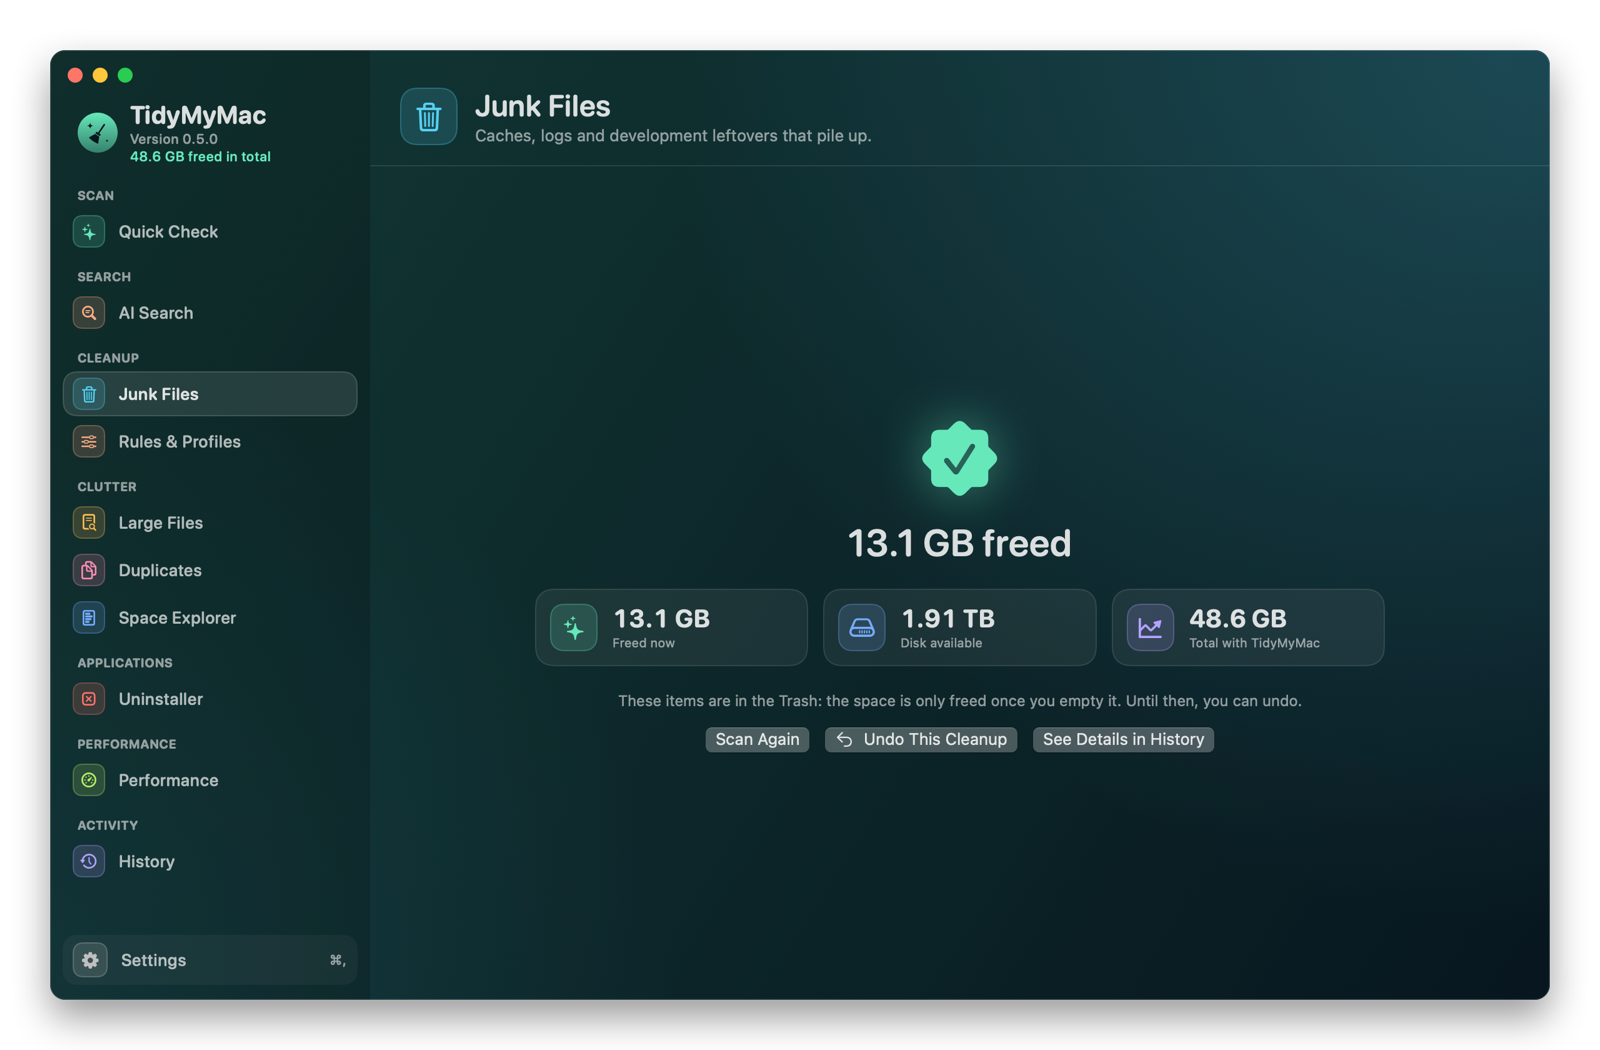
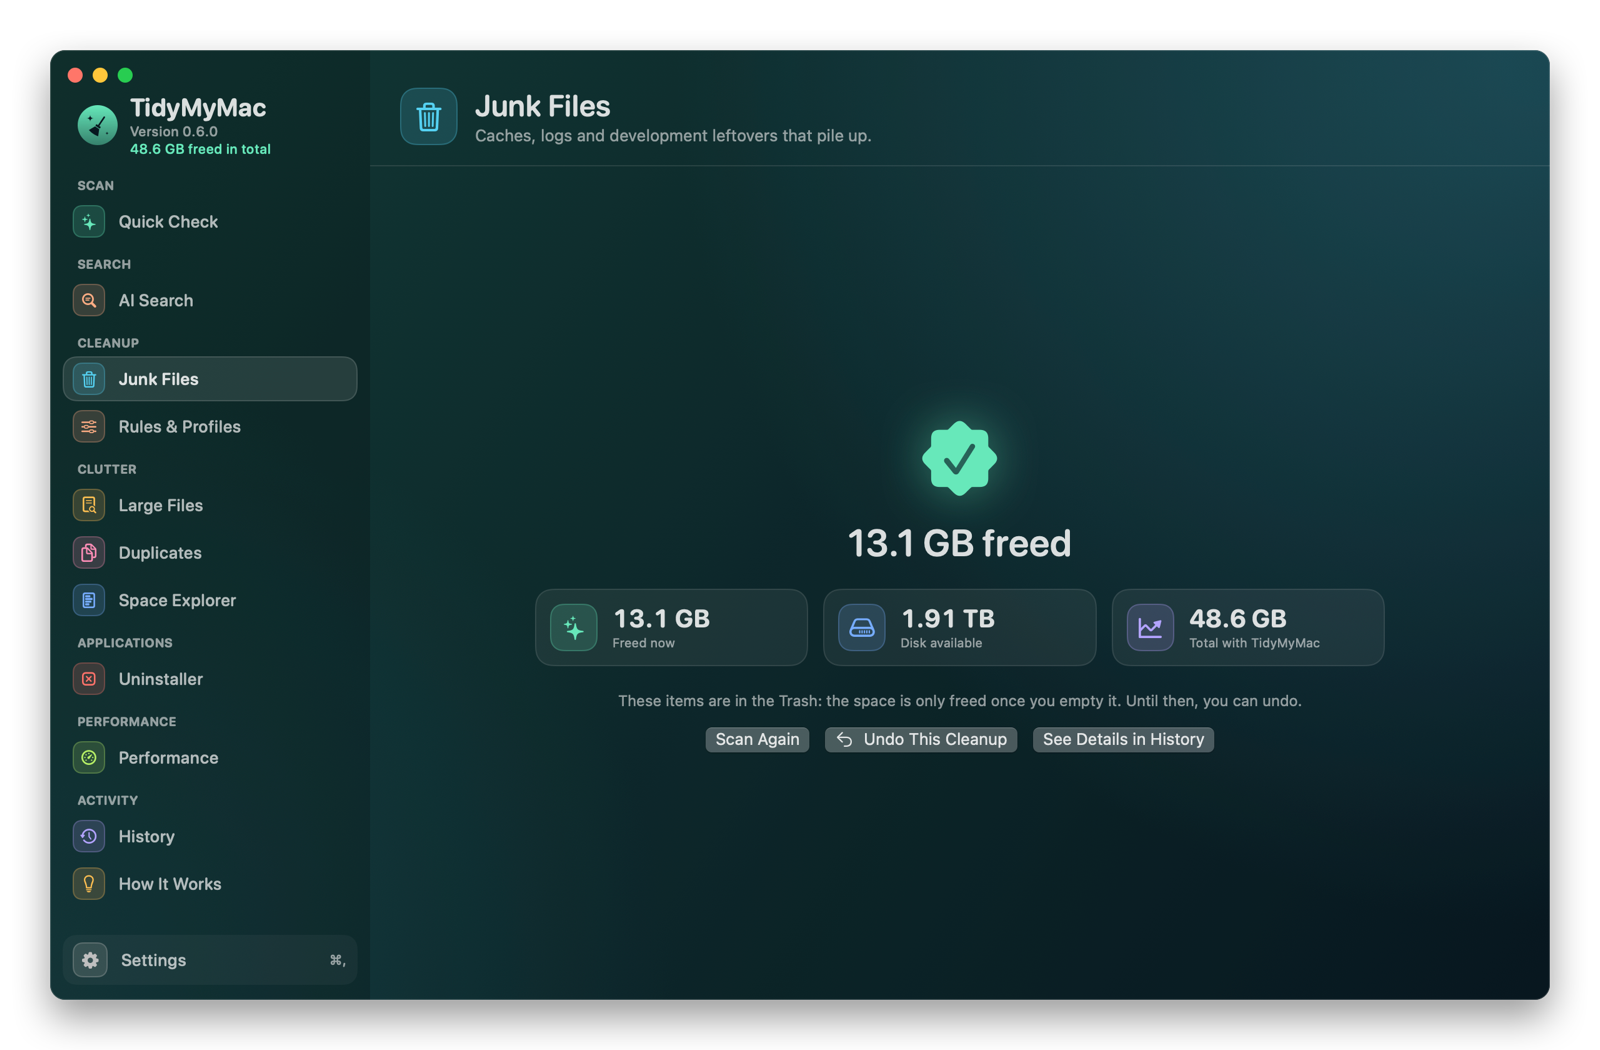
How It Works page and honest maintenance recommendations
Completes the "trust" phase: the app now explains what it does and doesn't
do, and stops recommending what macOS already manages on its own.

- New How It Works page: what TidyMyMac does, what it doesn't (no magic
  speed-up, nothing sent, protected files untouched), when cleaning up is
  pointless, and how to check it yourself.
- Maintenance is no longer a weekly routine: a task is only suggested when a
  measurement justifies it (memory pressure reported by macOS), nothing is
  selected by default, and the card says when there is nothing to do.
- Performance and Quick Check texts no longer promise a snappier Mac.
- Slightly tighter sidebar so the new page fits.

Changed region(s): [[0.0312, 0.0914, 0.2188, 0.8533]]

diff --git a/Sources/TidyMyMac/Features/HowItWorks/HowItWorksView.swift b/Sources/TidyMyMac/Features/HowItWorks/HowItWorksView.swift
@@ -1,0 +1,91 @@
+import SwiftUI
+
+/// « Comment ça marche » : ce que TidyMyMac fait, ce qu'il ne fait pas, et quand un nettoyage ne sert à rien.
+struct HowItWorksView: View {
+    @EnvironmentObject var navigation: AppNavigation
+
+    private var repositoryURL: URL? {
+        let repository = Bundle.main.object(forInfoDictionaryKey: "TMMReleasesRepository") as? String ?? ""
+        guard repository.split(separator: "/").count == 2 else { return nil }
+        return URL(string: "https://github.com/\(repository)")
+    }
+
+    var body: some View {
+        VStack(spacing: 0) {
+            ModuleHeader(module: .howItWorks)
+            Divider()
+            ScrollView {
+                VStack(alignment: .leading, spacing: 16) {
+                    ExplanationCard(icon: "checkmark.circle", tint: Theme.mint, title: "Ce que fait TidyMyMac", points: [
+                        localized("Il supprime des fichiers désignés par des règles publiques : caches, journaux, restes de développement, installeurs. Chaque règle explique ce qu'elle supprime et ce qui se passe ensuite."),
+                        localized("Il montre tout avant d'agir : le plan de nettoyage liste chaque élément, sa règle, son risque et sa destination, et attend votre confirmation."),
+                        localized("Il garde une trace : l'historique note chaque élément supprimé, et ce qui est dans la Corbeille peut être remis en place."),
+                        localized("Il mesure les gains de l'entretien avant et après, au lieu de les estimer."),
+                    ])
+                    ExplanationCard(icon: "xmark.circle", tint: Theme.coral, title: "Ce qu'il ne fait pas", points: [
+                        localized("Il ne rend pas le Mac plus rapide par magie. Supprimer des caches libère de l'espace, pas de la vitesse : les apps les recréent, et sont parfois un peu plus lentes le temps de le faire."),
+                        localized("Il ne touche pas aux fichiers protégés de macOS. Vos documents, photos et messages ne partent que si vous les choisissez vous-même, dans Gros fichiers, Doublons ou l'Explorateur d'espace."),
+                        localized("Il n'envoie rien : ni vos fichiers, ni vos recherches, ni statistiques d'usage. Les seules connexions sont la vérification des mises à jour, que vous pouvez désactiver, le téléchargement d'un modèle pour la Recherche IA et le test de débit que vous lancez vous-même."),
+                        localized("Il ne cherche pas à vous inquiéter : pas d'alerte alarmiste, pas de routine imposée, pas d'abonnement."),
+                    ])
+                    ExplanationCard(icon: "info.circle", tint: Theme.amber, title: "Quand nettoyer ne sert à rien", points: [
+                        localized("Quand il reste beaucoup d'espace libre : au-delà de quelques dizaines de gigaoctets, nettoyer ne change rien de visible."),
+                        localized("Pour la mémoire « utilisée » : macOS se sert de la mémoire libre comme cache, c'est voulu. La libérer n'aide que si macOS signale une mémoire sous tension, et TidyMyMac ne la conseille que dans ce cas."),
+                        localized("Pour les caches d'une app que vous utilisez tous les jours : ils reviendront vite."),
+                        localized("Pour le fichier d'échange, les caches système et une bonne partie des « Données système » : macOS les gère seul et libère de l'espace quand il en manque. TidyMyMac n'y touche pas."),
+                    ])
+                    ExplanationCard(icon: "magnifyingglass.circle", tint: Theme.sky, title: "Vérifier par vous-même", points: [
+                        localized("Le code est public, sous licence MIT : n'importe qui peut lire ce que fait l'app."),
+                        localized("Les règles sont des fichiers lisibles, expliquées une par une dans Règles et profils."),
+                        localized("Le plan de nettoyage et l'historique s'exportent en CSV ou JSON."),
+                        localized("Dans le Terminal, l'option --list-rules simule tout le nettoyage sans rien supprimer."),
+                    ])
+                    HStack(spacing: 12) {
+                        if let repositoryURL {
+                            Link(destination: repositoryURL) {
+                                Label("Voir le code sur GitHub", systemImage: "chevron.left.forwardslash.chevron.right")
+                            }
+                            .buttonStyle(SecondaryButtonStyle())
+                        }
+                        Button { navigation.selection = .rules } label: {
+                            Label("Ouvrir Règles et profils", systemImage: "slider.horizontal.3")
+                        }
+                        .buttonStyle(SecondaryButtonStyle())
+                        Button { navigation.selection = .history } label: {
+                            Label("Ouvrir l'historique", systemImage: "clock.arrow.circlepath")
+                        }
+                        .buttonStyle(SecondaryButtonStyle())
+                    }
+                    .padding(.top, 4)
+                }
+                .padding(24)
+            }
+        }
+    }
+}
+
+private struct ExplanationCard: View {
+    let icon: String
+    let tint: Color
+    let title: LocalizedStringKey
+    let points: [String]
+
+    var body: some View {
+        HStack(alignment: .top, spacing: 14) {
+            IconTile(symbol: icon, tint: tint, size: 38)
+            VStack(alignment: .leading, spacing: 10) {
+                Text(title).font(.system(.title3, design: .rounded).weight(.semibold))
+                ForEach(points, id: \.self) { point in
+                    HStack(alignment: .firstTextBaseline, spacing: 8) {
+                        Circle().fill(tint).frame(width: 5, height: 5).offset(y: -2)
+                        Text(point).fixedSize(horizontal: false, vertical: true)
+                    }
+                }
+            }
+            .frame(maxWidth: .infinity, alignment: .leading)
+        }
+        .padding(16)
+        .background(RoundedRectangle(cornerRadius: 14, style: .continuous).fill(Theme.card))
+        .overlay(RoundedRectangle(cornerRadius: 14, style: .continuous).strokeBorder(Theme.cardBorder))
+    }
+}

diff --git a/Sources/TidyMyMac/Features/Performance/PerformanceViews.swift b/Sources/TidyMyMac/Features/Performance/PerformanceViews.swift
@@ -54,9 +54,9 @@ private struct PerformanceOverview: View {
             ScrollView {
                 VStack(spacing: 26) {
                     VStack(spacing: 10) {
-                        Text("Un Mac plus vif, en quelques clics")
+                        Text("Ce qui pèse vraiment sur votre Mac")
                             .font(.system(size: 30, weight: .semibold, design: .rounded))
-                        Text("Lancez ce que nous conseillons, ou choisissez vous-même parmi toutes les tâches.")
+                        Text("Commencez par les apps au démarrage et les éléments d'arrière-plan. L'entretien sert quand un problème se présente.")
                             .font(.title3)
                             .foregroundColor(.secondary)
                         Button("Toutes les tâches") { navigation.performanceRoute = .maintenance }
@@ -83,10 +83,11 @@ private struct PerformanceOverview: View {
     }
 
     private var maintenanceCard: some View {
-        let tasks = maintenance.selectedTasks
+        let recommended = maintenance.recommendedTasks
+        let tasks = recommended.isEmpty ? MaintenanceTask.all : recommended
         return PerformanceCard(tint: Theme.lime) {
             VStack(alignment: .leading, spacing: 10) {
-                Text(maintenance.isDue ? localized("\(tasks.count) tâche(s) d'entretien conseillée(s)") : localized("Entretien à jour"))
+                Text(recommended.isEmpty ? localized("Rien à faire pour l'instant") : localized("\(recommended.count) tâche(s) utile(s) en ce moment"))
                     .font(cardTitle)
                 Text(maintenanceMessage).foregroundColor(.secondary).fixedSize(horizontal: false, vertical: true)
                 Spacer(minLength: 20)
@@ -107,22 +108,25 @@ private struct PerformanceOverview: View {
                     Spacer()
                     Button("Examiner") { navigation.performanceRoute = .maintenance }
                         .buttonStyle(SecondaryButtonStyle())
-                    Button(maintenance.running ? localized("En cours…") : localized("Lancer les tâches")) {
-                        Task { await maintenance.run() }
+                    if !recommended.isEmpty {
+                        Button(maintenance.running ? localized("En cours…") : localized("Lancer les tâches")) {
+                            Task { await maintenance.run(recommended) }
+                        }
+                        .buttonStyle(PrimaryButtonStyle(tint: Theme.lime))
+                        .disabled(maintenance.running)
                     }
-                    .buttonStyle(PrimaryButtonStyle(tint: Theme.lime))
-                    .disabled(maintenance.running || tasks.isEmpty)
                 }
             }
         }
         .frame(minHeight: 400)
     }
 
+    /// Pas de routine hebdomadaire : on ne conseille une tâche que si une mesure la justifie.
     private var maintenanceMessage: String {
-        if !maintenance.isDue, let lastRun = maintenance.lastRun {
-            return localized("Dernier passage \(lastRun.relativeDescription). Vous pouvez relancer les tâches quand vous voulez.")
+        if !maintenance.recommendedTasks.isEmpty {
+            return localized("macOS signale une mémoire sous tension : la libérer peut aider le temps de finir ce que vous faites.")
         }
-        return localized("Mémoire, cache DNS… Un passage par semaine suffit à garder un système réactif.")
+        return localized("macOS gère seul la mémoire et le cache DNS. Ces outils servent quand un problème se présente : un site qui ne charge plus, Spotlight qui ne trouve rien, des doublons dans « Ouvrir avec ».")
     }
 
     private func gainSummary(_ gains: MaintenanceGains) -> String {

diff --git a/Sources/TidyMyMac/Features/Performance/Maintenance.swift b/Sources/TidyMyMac/Features/Performance/Maintenance.swift
@@ -17,7 +17,7 @@ struct MaintenanceTask: Identifiable, Sendable {
     static var all: [MaintenanceTask] { [
         MaintenanceTask(
             id: "free-ram", title: localized("Libérer la mémoire vive"),
-            detail: localized("Vide le cache disque gardé en mémoire (commande purge)."),
+            detail: localized("Vide le cache disque gardé en mémoire (commande purge). macOS le fait seul quand il le faut : utile seulement si la mémoire est sous tension."),
             icon: "memorychip", needsAdmin: true, gauge: .freeMemory,
             doneMessage: localized("Mémoire déjà optimisée"),
             command: "/usr/sbin/purge"
@@ -143,9 +143,9 @@ enum MaintenanceRunner {
 @MainActor
 final class MaintenanceModel: ObservableObject {
     private static let lastRunKey = "lastMaintenanceRun"
-    private static let interval: TimeInterval = 7 * 24 * 3600
 
-    @Published var selected: Set<String> = ["free-ram", "flush-dns"]
+    /// Rien n'est coché d'office : ces tâches répondent à un problème, ce ne sont pas une routine.
+    @Published var selected: Set<String> = []
     @Published var runningTasks: Set<String> = []
     @Published var outcomes: [String: MaintenanceOutcome] = [:]
     @Published var lastGains: MaintenanceGains?
@@ -153,16 +153,21 @@ final class MaintenanceModel: ObservableObject {
 
     var running: Bool { !runningTasks.isEmpty }
 
-    /// Un entretien est conseillé s'il n'a jamais été fait ou date de plus d'une semaine.
-    var isDue: Bool {
-        guard let lastRun else { return true }
-        return Date().timeIntervalSince(lastRun) > Self.interval
+    /// macOS signale une mémoire sous tension (niveau « avertissement » ou « critique »).
+    static var memoryUnderPressure: Bool { SystemMonitor.readMemoryPressure() >= 2 }
+
+    /// Tâches justifiées par une mesure, maintenant. Vide la plupart du temps : macOS gère seul la mémoire et les caches.
+    var recommendedTasks: [MaintenanceTask] {
+        Self.memoryUnderPressure ? MaintenanceTask.all.filter { $0.id == "free-ram" } : []
     }
 
     var selectedTasks: [MaintenanceTask] { MaintenanceTask.all.filter { selected.contains($0.id) } }
 
     func run() async {
-        let tasks = selectedTasks
+        await run(selectedTasks)
+    }
+
+    func run(_ tasks: [MaintenanceTask]) async {
         runningTasks = Set(tasks.map(\.id))
         for task in tasks { outcomes[task.id] = nil }
         let result = await Task.detached(priority: .userInitiated) { MaintenanceRunner.execute(tasks) }.value

diff --git a/Sources/TidyMyMac/App/ModuleInfo.swift b/Sources/TidyMyMac/App/ModuleInfo.swift
@@ -107,9 +107,19 @@ extension Module {
                     ModuleFeature(icon: "square.and.arrow.up", text: localized("Export en CSV ou JSON")),
                 ]
             )
+        case .howItWorks:
+            return ModuleInfo(
+                tagline: localized("Ce que TidyMyMac fait, ce qu'il ne fait pas, et quand un nettoyage ne sert à rien."),
+                accent: Theme.amber, heroSymbol: "lightbulb", actionTitle: localized("Ouvrir"),
+                features: [
+                    ModuleFeature(icon: "checkmark.circle", text: localized("Ce que fait l'app, sans promesse magique")),
+                    ModuleFeature(icon: "info.circle", text: localized("Quand nettoyer ne sert à rien")),
+                    ModuleFeature(icon: "magnifyingglass.circle", text: localized("Comment le vérifier vous-même")),
+                ]
+            )
         case .performance:
             return ModuleInfo(
-                tagline: localized("Des recommandations et des outils pour un Mac plus réactif."),
+                tagline: localized("Apps au démarrage, éléments d'arrière-plan et outils d'entretien, sans promesse magique."),
                 accent: Theme.lime, heroSymbol: "speedometer", actionTitle: localized("Analyser"),
                 features: [
                     ModuleFeature(icon: "wrench.and.screwdriver", text: localized("Tâches d'entretien en un clic")),

diff --git a/Sources/TidyMyMac/App/TidyMyMacApp.swift b/Sources/TidyMyMac/App/TidyMyMacApp.swift
@@ -92,7 +92,7 @@ final class AppNavigation: ObservableObject {
 }
 
 enum Module: String, CaseIterable, Identifiable {
-    case smartScan, search, junk, rules, largeFiles, duplicates, spaceExplorer, uninstaller, performance, history
+    case smartScan, search, junk, rules, largeFiles, duplicates, spaceExplorer, uninstaller, performance, history, howItWorks
 
     var id: String { rawValue }
 
@@ -108,6 +108,7 @@ enum Module: String, CaseIterable, Identifiable {
         case .uninstaller: return localized("Désinstallateur")
         case .performance: return localized("Performances")
         case .history: return localized("Historique")
+        case .howItWorks: return localized("Comment ça marche")
         }
     }
 
@@ -123,6 +124,7 @@ enum Module: String, CaseIterable, Identifiable {
         case .uninstaller: return "xmark.app"
         case .performance: return "speedometer"
         case .history: return "clock.arrow.circlepath"
+        case .howItWorks: return "lightbulb"
         }
     }
 }
@@ -163,6 +165,7 @@ struct ContentView: View {
         case .uninstaller: UninstallerView()
         case .performance: PerformanceView()
         case .history: HistoryView()
+        case .howItWorks: HowItWorksView()
         }
     }
 }

diff --git a/Sources/TidyMyMac/App/Sidebar.swift b/Sources/TidyMyMac/App/Sidebar.swift
@@ -13,7 +13,7 @@ struct ModuleSection: Identifiable {
         ModuleSection(title: localized("Encombrement"), modules: [.largeFiles, .duplicates, .spaceExplorer]),
         ModuleSection(title: localized("Applications"), modules: [.uninstaller]),
         ModuleSection(title: localized("Performances"), modules: [.performance]),
-        ModuleSection(title: localized("Suivi"), modules: [.history]),
+        ModuleSection(title: localized("Suivi"), modules: [.history, .howItWorks]),
     ] }
 }
 
@@ -33,7 +33,7 @@ struct Sidebar: View {
                             .font(.system(size: 10, weight: .bold, design: .rounded))
                             .foregroundColor(.secondary)
                             .padding(.horizontal, 12)
-                            .padding(.top, 10)
+                            .padding(.top, 8)
                             .padding(.bottom, 2)
                         ForEach(section.modules) { module in
                             SidebarItem(module: module, selected: (navigation.selection ?? .smartScan) == module) {
@@ -79,7 +79,7 @@ struct Sidebar: View {
             }
         }
         .padding(.horizontal, 12)
-        .padding(.top, 40)
+        .padding(.top, 34)
         .padding(.bottom, 8)
     }
 

diff --git a/Sources/TidyMyMac/Features/SmartScan/DashboardView.swift b/Sources/TidyMyMac/Features/SmartScan/DashboardView.swift
@@ -89,7 +89,9 @@ struct DashboardView: View {
                 SummaryRow(
                     icon: "wrench.and.screwdriver", tint: Theme.lime,
                     title: "Maintenance",
-                    value: "Vider le cache DNS et libérer la mémoire vive",
+                    value: LocalizedStringKey(MaintenanceModel.memoryUnderPressure
+                        ? localized("Mémoire sous tension : la libérer peut aider")
+                        : localized("Rien à faire : macOS gère la mémoire et le cache DNS")),
                     buttonTitle: "Ouvrir"
                 ) { openPerformance(.overview) }
             }

diff --git a/Sources/TidyMyMac/Core/SystemMonitor.swift b/Sources/TidyMyMac/Core/SystemMonitor.swift
@@ -205,7 +205,7 @@ final class SystemMonitor: ObservableObject {
     }
 
     /// 1 = normale, 2 = avertissement, 4 = critique.
-    private static func readMemoryPressure() -> Int32 {
+    nonisolated static func readMemoryPressure() -> Int32 {
         var level: Int32 = 1
         var size = MemoryLayout<Int32>.size
         sysctlbyname("kern.memorystatus_vm_pressure_level", &level, &size, nil, 0)

diff --git a/Sources/TidyMyMac/App/ScreenshotStudio.swift b/Sources/TidyMyMac/App/ScreenshotStudio.swift
@@ -49,6 +49,7 @@ enum ScreenshotStudio {
             ("05-ai-search", .search),
             ("09-rules", .rules),
             ("10-history", .history),
+            ("13-how-it-works", .howItWorks),
         ]
         for scene in scenes {
             let demo = DemoModels()

diff --git a/README.md b/README.md
@@ -25,7 +25,8 @@
 ## Why TidyMyMac
 
 - **Free and open source**: MIT license, no subscription, no account, no upsell.
-- **Transparent**: you see every file before it goes, and personal files always go to the Trash first.
+- **Transparent**: you see every file before it goes, personal files always go to the Trash first, and the app tells
+  you when cleaning up won’t help.
 - **Private**: no telemetry. AI Search runs on your Mac with an open-source model; your files never leave it.
 - **Native**: a Swift and SwiftUI app with no third-party dependencies.
 
@@ -41,7 +42,8 @@
 | **Duplicates** | Identical files grouped by content (SHA-256), always keeping one copy. |
 | **Space Explorer** | See what fills your disk as bubbles or as a list, then select several items to reveal or remove. |
 | **Uninstaller** | Remove an app with its leftovers in `~/Library`, or reset an app by deleting only its data. |
-| **Performance** | Recommendations first, then detailed managers: maintenance tasks (RAM, DNS, Time Machine snapshots, Spotlight, Mail, Launch Services) with measured gains, login apps and background items. |
+| **Performance** | Login apps and background items first, then maintenance tools (RAM, DNS, Time Machine snapshots, Spotlight, Mail, Launch Services) with measured gains. A task is only suggested when a measurement justifies it, such as memory pressure reported by macOS. |
+| **How It Works** | What TidyMyMac does, what it doesn’t, when cleaning up is pointless, and how to check it yourself. |
 | **History** | Every cleanup, uninstall and maintenance run, item by item: where each file went (Trash or deleted), what was freed over time, with CSV and JSON export. Put any item back from the Trash, or undo a whole cleanup. |
 | **Menu bar** | Live Mac health — disk, memory, CPU, battery, network with speed test, connected volumes — plus a search bar for AI Search. |
 
@@ -129,6 +131,16 @@ that has taken its place since.
   &nbsp;&nbsp;
   <img src="docs/screenshots/07-settings.png" width="420" alt="Settings window">
 </p>
+
+### How It Works
+
+<p align="center">
+  <img src="docs/screenshots/13-how-it-works.png" alt="How It Works">
+</p>
+
+A plain page inside the app: removing caches frees space, not speed; macOS already manages memory, swap and most of
+“System Data”; and with plenty of free space, cleaning up makes no visible difference. TidyMyMac only suggests a
+maintenance task when a measurement justifies it.
 
 ## Privacy
 

diff --git a/CHANGELOG.md b/CHANGELOG.md
@@ -6,6 +6,18 @@ Le format suit [Keep a Changelog](https://keepachangelog.com/fr/1.1.0/) et les n
 
 ## [Non publié]
 
+### Ajouté
+
+- Page « Comment ça marche » : ce que TidyMyMac fait, ce qu'il ne fait pas, quand un nettoyage ne sert à rien et comment
+  le vérifier soi-même (code public, règles lisibles, exports, `--list-rules`).
+
+### Modifié
+
+- Entretien : plus de routine hebdomadaire conseillée. Une tâche n'est suggérée que si une mesure la justifie (mémoire
+  sous tension signalée par macOS) ; sinon l'app indique qu'il n'y a rien à faire. Aucune tâche n'est cochée d'office.
+- Textes de Performances et de l'Analyse intelligente sans promesse de vitesse : « Ce qui pèse vraiment sur votre Mac ».
+- Barre latérale encore un peu plus compacte.
+
 ## [0.5.0] - 2026-10-30
 
 ### Ajouté
